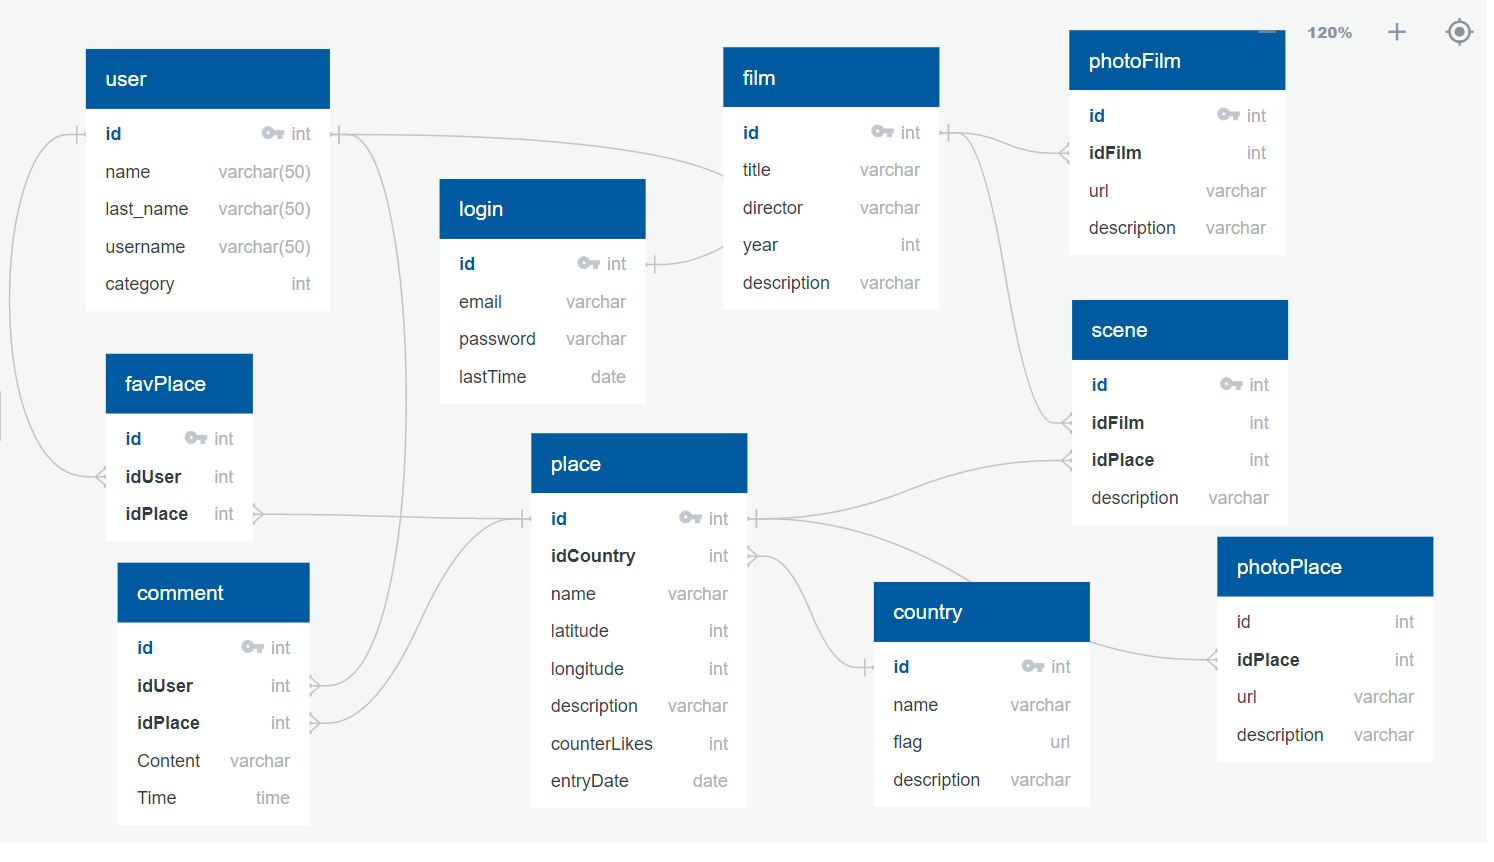
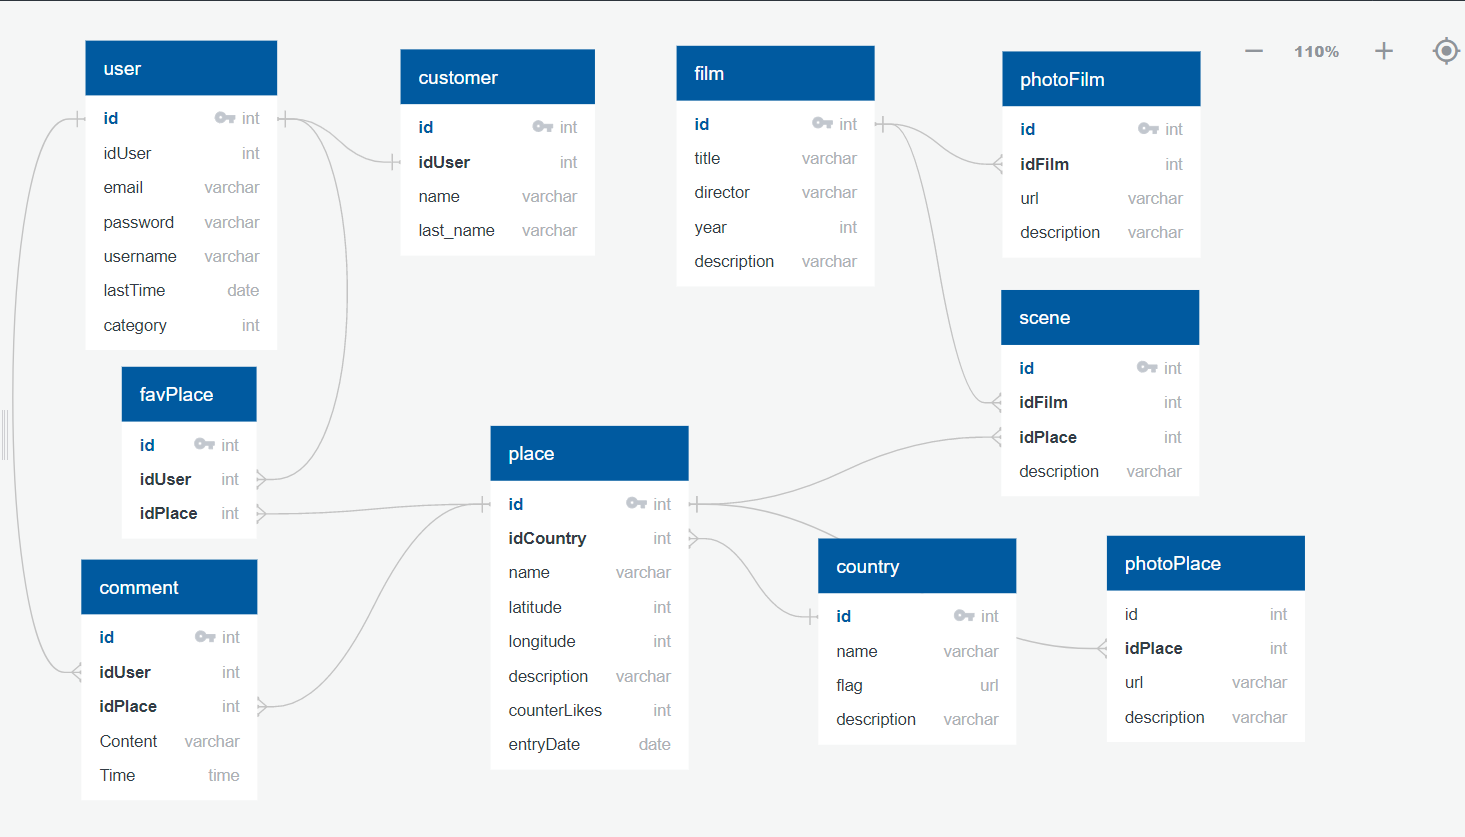
database changed

diff --git a/src/api/routes.py b/src/api/routes.py
@@ -3,7 +3,7 @@ This module takes care of starting the API Server, Loading the DB and Adding the
 """
 from flask import Flask, request, jsonify, url_for, Blueprint
 from flask_jwt_extended import create_access_token, jwt_required, get_jwt_identity
-from api.models import db, User, Login
+from api.models import db, User, Customer
 from api.utils import generate_sitemap, APIException
 
 api = Blueprint('api', __name__)
@@ -33,14 +33,14 @@ def signup():
     user = Login.query.filter_by(email=email).first()
     if user is None:
         #Create registres in User and Login
-        newuser = User(name=name, last_name=last_name, username=username, category=category)
+        newuser = User(email=email, password=password, username=username, lastTime=None, category=category)
         db.session.add(newuser)
         #Query to get the id of new user
         userdata = User.query.filter_by(username=username).first()
-        userlogin = Login(idUser=userdata.id, email=email, password=password, lastTime=None)
-        db.session.add(userlogin)
+        customer = Customer(idUser=userdata.id, name=name, last_name=last_name)
+        db.session.add(customer)
         db.session.commit()
-        return jsonify({"message": "ok", "id": userdata.id, "name":newuser.name, "last_name":newuser.last_name}), 200
+        return jsonify({"message": "ok", "id": userdata.id, "name":customer.name, "last_name":customer.last_name}), 200
     else:
         return jsonify({"error":"user already exists"}), 400
 
@@ -50,16 +50,14 @@ def create_token():
     email = request.json.get("email", None)
     password = request.json.get("password", None)
     # Query your database for username and password
-    userlogin = Login.query.filter_by(email=email, password=password).first()
-    if userlogin is None:
-        userlogin = Login.query.filter_by(email=email).first()
-        if userlogin is None:
-            # the user was not found on the database
-            return jsonify({"error": "email not exists"}), 401
-        else:
-            # bad password
-            return jsonify({"error": "bad password"}), 401
+    user = User.query.filter_by(email=email).first()
+    if user is None:
+        # the user was not found on the database
+        return jsonify({"error": "email not exists"}), 401
+    elif user.password != password:
+        # bad password
+        return jsonify({"error": "bad password"}), 401
     
     # create a new token with the user id inside
     access_token = create_access_token(identity=userlogin.idUser)
-    return jsonify({ "token": access_token, "user_id": userlogin.idUser }), 200
+    return jsonify({ "token": access_token, "user_id": user.idUser }), 200

diff --git a/src/api/models.py b/src/api/models.py
@@ -4,30 +4,12 @@ db = SQLAlchemy()
 
 class User(db.Model):
     id = db.Column(db.Integer, primary_key=True)
-    name = db.Column(db.String(80), unique=False, nullable=False)
-    last_name = db.Column(db.String(80), unique=False, nullable=True)
-    username = db.Column(db.String(80), unique=True, nullable=False)
-    category = db.Column(db.Boolean(), unique=False, nullable=False)
-    #false for user, true for admin
-    login = db.relationship("Login", back_populates="user", uselist=False)
-
-    def __repr__(self):
-        return '<User %r>' % self.username
-
-    def serialize(self):
-        return {
-            "id": self.id,
-            "email": self.email,
-        }
-
-
-class Login(db.Model):
-    id = db.Column(db.Integer, primary_key=True)
-    idUser = db.Column(db.Integer, db.ForeignKey('user.id'))
     email = db.Column(db.String(120), unique=True, nullable=False)
     password = db.Column(db.String(80), unique=False, nullable=False)
+    username = db.Column(db.String(80), unique=True, nullable=False)
+    category = db.Column(db.Boolean(), unique=False, nullable=False) #false for user, true for admin
     lastTime = db.Column(db.Date)
-    user = db.relationship("User", back_populates="login")
+    customer = db.relationship("Customer", back_populates="user", uselist=False)
     
     def __repr__(self):
         return '<Login %r>' % self.email
@@ -38,7 +20,22 @@ class Login(db.Model):
             "email": self.email,
         }
 
+class Customer(db.Model):
+    id = db.Column(db.Integer, primary_key=True)
+    idUser = db.Column(db.Integer, db.ForeignKey('user.id'))
+    name = db.Column(db.String(80), unique=False, nullable=False)
+    last_name = db.Column(db.String(80), unique=False, nullable=True)
 
+    user = db.relationship("User", back_populates="customer")
+
+    def __repr__(self):
+        return '<Customer %r>' % self.username
+
+    def serialize(self):
+        return {
+            "id": self.id,
+            "email": self.email,
+        }
 
 
 class Film(db.Model):

diff --git a/src/api/admin.py b/src/api/admin.py
@@ -1,7 +1,7 @@
   
 import os
 from flask_admin import Admin
-from .models import db, User, Login, Film, Place, Country, Scene, PhotoFilm, PhotoPlace, FavPlace, Comment
+from .models import db, User, Customer, Film, Place, Country, Scene, PhotoFilm, PhotoPlace, FavPlace, Comment
 from flask_admin.contrib.sqla import ModelView
 
 def setup_admin(app):
@@ -13,7 +13,7 @@ def setup_admin(app):
     
     # Add your models here, for example this is how we add a the User model to the admin
     admin.add_view(ModelView(User, db.session))
-    admin.add_view(ModelView(Login, db.session))
+    admin.add_view(ModelView(Customer, db.session))
     admin.add_view(ModelView(Film, db.session))
     admin.add_view(ModelView(Place, db.session))
     admin.add_view(ModelView(Country, db.session))
